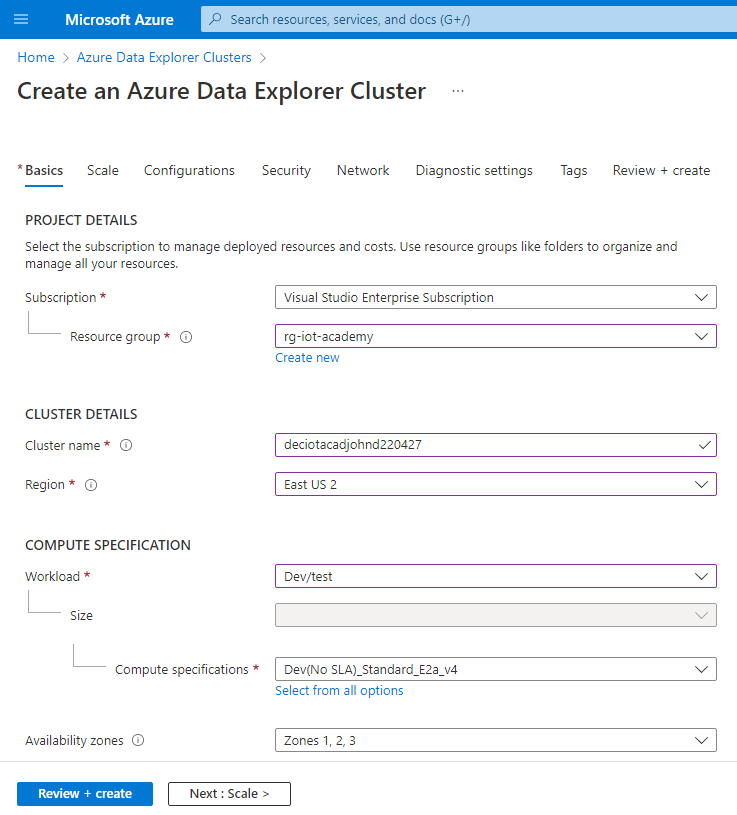
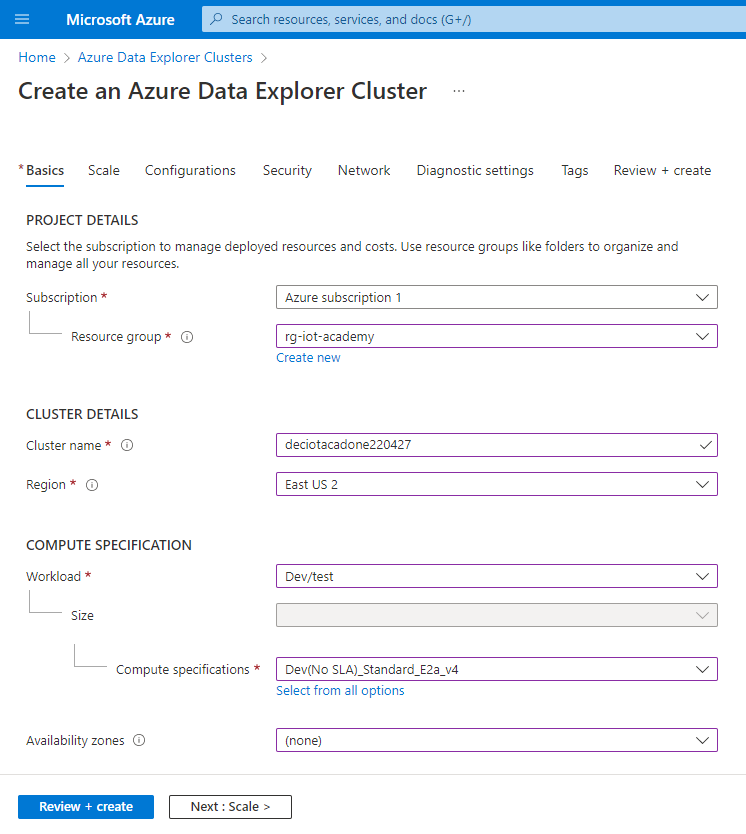
day2, misc formatting issues and a new screenshot for clarity

diff --git a/Month_1/Day_2/Azure IoT Foundation.md b/Month_1/Day_2/Azure IoT Foundation.md
@@ -9,43 +9,44 @@ https://portal.azure.com/
 
 <!-- code_chunk_output -->
 
-- [**Prerequisites**](#prerequisites)
-  - [**Task 1: Install VS Code**](#task-1-install-vs-code)
-  - [**Task 2: Install VS Code Extensions**](#task-2-install-vs-code-extensions)
-- [**Exercise 1: IoT Hub provisioning**](#exercise-1-iot-hub-provisioning)
-  - [**Task 1: Provision IoT Hub through the Portal**](#task-1-provision-iot-hub-through-the-portal)
-  - [**Task 2: Provision IoT Hub through CLI**](#task-2-provision-iot-hub-through-cli)
-  - [**Task 3: Provision IoT Hub through VS Code**](#task-3-provision-iot-hub-through-vs-code)
-- [**Exercise 2: Azure IoT Hub Device Provisioning Service (DPS)**](#exercise-2-azure-iot-hub-device-provisioning-service-dps)
-  - [**Task 1: Deploy DPS**](#task-1-deploy-dps)
-  - [**Task 2: Connect IoT Hub to DPS**](#task-2-connect-iot-hub-to-dps)
-  - [**Task 3: Create an Individual Enrollment**](#task-3-create-an-individual-enrollment)
-  - [**Task 4: Gather Individual Enrollment Details**](#task-4-gather-individual-enrollment-details)
-- [**Exercise 3: Create an Ubuntu-based Azure IoT Edge Device**](#exercise-3-create-an-ubuntu-based-azure-iot-edge-device)
-  - [**Task 1: Ensure the Azure Resource Provider is Registered**](#task-1-ensure-the-azure-resource-provider-is-registered)
-  - [**Task 2: Creating a VM to host an IoT Edge Device**](#task-2-creating-a-vm-to-host-an-iot-edge-device)
-  - [**Task 3: Connecting to your Ubuntu Virtual Machine**](#task-3-connecting-to-your-ubuntu-virtual-machine)
-  - [**Task 4: Install the Azure IoT Edge Runtime and Connect the Device**](#task-4-install-the-azure-iot-edge-runtime-and-connect-the-device)
-  - [**Task 5: Observe the Enrollment and Device Status**](#task-5-observe-the-enrollment-and-device-status)
-- [**Exercise 4: Deploy and IoT Edge Module to Simulate Device Telemetry**](#exercise-4-deploy-and-iot-edge-module-to-simulate-device-telemetry)
-  - [**Task 1: Use the IoT Edge Module Marketplace to Provision the Simulated Temperature Sensor Module**](#task-1-use-the-iot-edge-module-marketplace-to-provision-the-simulated-temperature-sensor-module)
-  - [**Task 2: Ensure the Module is Running**](#task-2-ensure-the-module-is-running)
-- [**Exercise 5: Ingesting Telemetry Data with IoT Hub and Azure Data Explorer (ADX)**](#exercise-5-ingesting-telemetry-data-with-iot-hub-and-azure-data-explorer-adx)
-  - [**Task 1: Creating the ADX Cluster**](#task-1-creating-the-adx-cluster)
-  - [**Task 2: Adding an ADX Database**](#task-2-adding-an-adx-database)
-  - [**Task 3: Creating the tempsensor table**](#task-3-creating-the-tempsensor-table)
-  - [**Task 4: Connecting ADX to IoT Hub to Ingest Telemetry**](#task-4-connecting-adx-to-iot-hub-to-ingest-telemetry)
-- [**Exercise 6: Analyzing Data with Azure Data Explorer (ADX)**](#exercise-6-analyzing-data-with-azure-data-explorer-adx)
-  - [**Task 1: Connecting ASA to IoT Hub**](#task-1-connecting-asa-to-iot-hub)
-- [**Exercise 7: Processing Telemetry with Azure Stream Analytics (ASA)**](#exercise-7-processing-telemetry-with-azure-stream-analytics-asa)
-  - [**Task 1: Create a Table in ADX to Hold aggregated data**](#task-1-create-a-table-in-adx-to-hold-aggregated-data)
-  - [**Task 2: Create a new ASA Job**](#task-2-create-a-new-asa-job)
-  - [**Task 3: Creating an ASA Input**](#task-3-creating-an-asa-input)
-  - [**Task 4: Creating an ASA Output**](#task-4-creating-an-asa-output)
-  - [**Task 5: Writing an ASA Query**](#task-5-writing-an-asa-query)
-  - [**Task 6: Start the ASA Job**](#task-6-start-the-asa-job)
-  - [**Task 7: Review Collected Aggregated in ADX**](#task-7-review-collected-aggregated-in-adx)
-- [**Exercise 8: Cleanup**](#exercise-8-cleanup)
+- [Internet of Things](#internet-of-things)
+  - [**Prerequisites**](#prerequisites)
+    - [**Task 1: Install VS Code**](#task-1-install-vs-code)
+    - [**Task 2: Install VS Code Extensions**](#task-2-install-vs-code-extensions)
+  - [**Exercise 1: IoT Hub provisioning**](#exercise-1-iot-hub-provisioning)
+    - [**Task 1: Provision IoT Hub through the Portal**](#task-1-provision-iot-hub-through-the-portal)
+    - [**Task 2: Provision IoT Hub through CLI**](#task-2-provision-iot-hub-through-cli)
+    - [**Task 3: Provision IoT Hub through VS Code**](#task-3-provision-iot-hub-through-vs-code)
+  - [**Exercise 2: Azure IoT Hub Device Provisioning Service (DPS)**](#exercise-2-azure-iot-hub-device-provisioning-service-dps)
+    - [**Task 1: Deploy DPS**](#task-1-deploy-dps)
+    - [**Task 2: Connect IoT Hub to DPS**](#task-2-connect-iot-hub-to-dps)
+    - [**Task 3: Create an Individual Enrollment**](#task-3-create-an-individual-enrollment)
+    - [**Task 4: Gather Individual Enrollment Details**](#task-4-gather-individual-enrollment-details)
+  - [**Exercise 3: Create an Ubuntu-based Azure IoT Edge Device**](#exercise-3-create-an-ubuntu-based-azure-iot-edge-device)
+    - [**Task 1: Ensure the Azure Resource Provider is Registered**](#task-1-ensure-the-azure-resource-provider-is-registered)
+    - [**Task 2: Creating a VM to host an IoT Edge Device**](#task-2-creating-a-vm-to-host-an-iot-edge-device)
+    - [**Task 3: Connecting to your Ubuntu Virtual Machine**](#task-3-connecting-to-your-ubuntu-virtual-machine)
+    - [**Task 4: Install the Azure IoT Edge Runtime and Connect the Device**](#task-4-install-the-azure-iot-edge-runtime-and-connect-the-device)
+    - [**Task 5: Observe the Enrollment and Device Status**](#task-5-observe-the-enrollment-and-device-status)
+  - [**Exercise 4: Deploy an IoT Edge Module to Simulate Device Telemetry**](#exercise-4-deploy-an-iot-edge-module-to-simulate-device-telemetry)
+    - [**Task 1: Use the IoT Edge Module Marketplace to Provision the Simulated Temperature Sensor Module**](#task-1-use-the-iot-edge-module-marketplace-to-provision-the-simulated-temperature-sensor-module)
+    - [**Task 2: Ensure the Module is Running**](#task-2-ensure-the-module-is-running)
+  - [**Exercise 5: Ingesting Telemetry Data with IoT Hub and Azure Data Explorer (ADX)**](#exercise-5-ingesting-telemetry-data-with-iot-hub-and-azure-data-explorer-adx)
+    - [**Task 1: Creating the ADX Cluster**](#task-1-creating-the-adx-cluster)
+    - [**Task 2: Adding an ADX Database**](#task-2-adding-an-adx-database)
+    - [**Task 3: Creating the tempsensor table**](#task-3-creating-the-tempsensor-table)
+    - [**Task 4: Connecting ADX to IoT Hub to Ingest Telemetry**](#task-4-connecting-adx-to-iot-hub-to-ingest-telemetry)
+  - [**Exercise 6: Analyzing Data with Azure Data Explorer (ADX)**](#exercise-6-analyzing-data-with-azure-data-explorer-adx)
+    - [**Task 1: Connecting ASA to IoT Hub**](#task-1-connecting-asa-to-iot-hub)
+  - [**Exercise 7: Processing Telemetry with Azure Stream Analytics (ASA)**](#exercise-7-processing-telemetry-with-azure-stream-analytics-asa)
+    - [**Task 1: Create a Table in ADX to Hold aggregated data**](#task-1-create-a-table-in-adx-to-hold-aggregated-data)
+    - [**Task 2: Create a new ASA Job**](#task-2-create-a-new-asa-job)
+    - [**Task 3: Creating an ASA Input**](#task-3-creating-an-asa-input)
+    - [**Task 4: Creating an ASA Output**](#task-4-creating-an-asa-output)
+    - [**Task 5: Writing an ASA Query**](#task-5-writing-an-asa-query)
+    - [**Task 6: Start the ASA Job**](#task-6-start-the-asa-job)
+    - [**Task 7: Review Collected Aggregated in ADX**](#task-7-review-collected-aggregated-in-adx)
+  - [**Exercise 8: Cleanup**](#exercise-8-cleanup)
 
 <!-- /code_chunk_output -->
 
@@ -617,27 +618,31 @@ e.g. `ssh iotacademy@20.122.53.2`
 
    ![Config File.](./media/dps-registration-status-assigned.png 'Config File')   
 
-## **Exercise 4: Deploy and IoT Edge Module to Simulate Device Telemetry**
+## **Exercise 4: Deploy an IoT Edge Module to Simulate Device Telemetry**
 
 ### **Task 1: Use the IoT Edge Module Marketplace to Provision the Simulated Temperature Sensor Module**
 
    1. In Azure Portal, navigate to your IoT Hub created in previous steps, under **Device Management** click **IoT Edge**, then click your Edge Device
+    
       ![Select Device.](./media/edge-set-module-1.png 'Select Device')
 
-   2. Click **Set Modules**
+   3. Click **Set Modules**
+    
       ![Set Modules.](./media/edge-set-module-2.png 'Set Modules')
 
-   3. Click **Add**. Then click **Marketplace Module**
+   5. Click **Add**. Then click **Marketplace Module**
+    
       ![Add Module.](./media/edge-set-module-add-module.png 'Add Module')
    
-   4. The search box will appear, type **Simulated Temperature Sensor**, Then click the module to add it
+   7. The search box will appear, type **Simulated Temperature Sensor**, Then click the module to add it
+   
       ![Add Temp Module.](./media/edge-set-module-add-module-simulated-temp.png 'Add Temp Module')
 
-   5. Review the presentation section **Routes** to learn about IoT Edge routing
+   8. Review the presentation section **Routes** to learn about IoT Edge routing
    
-   6. Click **Review + create** at the bottom of the pane. Review the available settings for the Deployment
+   9. Click **Review + create** at the bottom of the pane. Review the available settings for the Deployment
    
-   7. After validation passes click **Create** at the bottom of the pane
+   10. After validation passes click **Create** at the bottom of the pane
 
 ### **Task 2: Ensure the Module is Running**
 
@@ -648,6 +653,8 @@ e.g. `ssh iotacademy@20.122.53.2`
 
    - On device details review the **Modules** section at the bottom of the pane. 
       ![Edge Modules.](./media/edge-set-module-module-running.png 'Modules')
+
+      The **Refresh** button can also be used to get the latest status rather than refreshing the page. 
 
    - Using SSH, connect to your VM and run the `iotedge list` command as shown below
       ```bash
@@ -676,12 +683,14 @@ e.g. `ssh iotacademy@20.122.53.2`
          - Region: `{Your region}` e.g. `East US 2`
          - Workload: `Dev/test`
          - Compute specifications: `Dev(No SLA)_Standard_E2a_v4`
-      
-      ![Add Create ADX.](./media/telemetry-data-adx-create.png 'Add Create ADX')
+         - Availability Zones: uncheck all options. Availability zones provide resiliency, most often for production systems.  
+         <br/>
+
+         ![Add Create ADX.](./media/telemetry-data-adx-create.png 'Add Create ADX')
 
       - After validation passes click **Create**
 
-      - Wait until the cluster is created and click **Go to resource**
+      - Wait until the cluster is created, which may take ~5-10 minutes, and click **Go to resource**
 <br/>
 
 ### **Task 2: Adding an ADX Database**
@@ -702,7 +711,11 @@ e.g. `ssh iotacademy@20.122.53.2`
 
    Create the tempsensor table with schema and mapping
 
-   - Click Query. Click your **tempsensor** database. Paste the create table code from below into the windows. Then click **Run**.
+   - Click **Query**. Click your **tempsensor** database. Paste the create table code from below into the windows. Then click **Run**.
+
+      <span style="color:rgb(203,65,84);font-weight:700;font-size:16px">          
+      Note: If Query is greyed out refresh your browser page.
+      </span>
 
       ```
       .create table tempsensor (timeCreated: datetime, temperature: real, humidity: real)
@@ -753,9 +766,11 @@ e.g. `ssh iotacademy@20.122.53.2`
          - Mapping name: `tempsensorMapping`
 
       - Click **Create**
+
          ![ADX Create Connection Details.](./media/telemetry-data-adx-ingest-create-connection-details.png 'ADX Create Connection Details')
       
       - Watch for the notification for when the data connection creation is successful.
+
          ![ADX Create Connection Notification.](./media/telemetry-data-adx-ingest-create-connection-notification.png 'ADX Create Connection Notification')
 
 ## **Exercise 6: Analyzing Data with Azure Data Explorer (ADX)**
@@ -766,25 +781,35 @@ e.g. `ssh iotacademy@20.122.53.2`
       The `Simulated Temperature Sensor` module sends 500 telemetry messages, once every 5 seconds. This means ~40 minutes worth of messages. As our lab takes some time to work through we'll restart the module to ensure we have plenty of data to analyze with ADX.
 
       - Create a 2nd browser tab to have both ADX and IoT Hub open in the Azure Portal. Right click the browser tab and click **Duplicate tab**.
+
          ![Edge Duplicate Tab.](./media/edge-duplicate-tab.png 'Edge Duplicate Tab')
          <br/>
 
       - Switch to your 2nd tab, then click Microsoft Azure at the top of window to take you to the home page.
 
       - In your recent resources click your IoT Hub instance such as `iot-academy-johndoe-vscode-220427`
+
          ![Recent Resources.](./media/recent-resources-iothub.png 'Recent Resources')
          <br/>
       
       - Click **IoT Edge**, then click your device **iot-academy-edge-device**
+
          ![IoT Hub Edge Device.](./media/iot-hub-iot-edge-device.png 'IoT Hub Edge Device')
          <br/>
 
       - Click the **Simulated Temperature Sensor** module at the bottom of the window
+
          ![IoT Hub Device Module.](./media/iot-hub-device-module.png 'IoT Hub Device Module')
+         <br/>
+
+      - Click the **Troubleshoot** at the top of the window
+
+         ![Troubleshoot.](./media/iot-hub-edge-module-troubleshoot.png 'Troubleshoot')
          <br/>
       
       - Click **Restart Simulated Temperature Sensor** 
          Notice the status that's received `Initializing simulated temperature sensor to send 500 messages, at an interval of 5 seconds`
+
          ![Restart Simulated Temperature Sensor.](./media/simulated-temp-sensor-restart.png 'Restart Simulated Temperature Sensor')
          <br/>
    
@@ -817,7 +842,9 @@ e.g. `ssh iotacademy@20.122.53.2`
    1. Go to the Azure Portal home page
    2. Click **Create a resource**
    3. Search for `stream analytics job`
+
       ![ASA Create.](./media/asa-create.png 'ASA Create')
+
    4. Click **Stream Analytics job**
    5. Click **Create**
    6. Enter the details for the job:
@@ -828,6 +855,7 @@ e.g. `ssh iotacademy@20.122.53.2`
       - Streaming units: `1`
       
       ![ASA Create Details.](./media/asa-create-details.png 'ASA Create Details')
+
    7. When the deployment is complete click **Go to resource**
    
 ### **Task 3: Creating an ASA Input**
@@ -836,14 +864,18 @@ e.g. `ssh iotacademy@20.122.53.2`
    - Create a new consumer group named `asa`. Reference Exercise 5 - Task 4 if help is needed.
    - Go back to your tab that has your ASA instance.
    - Click **Inputs**, Click **Add stream input**, Click **IoT Hub**
+
       ![New Input.](./media/asa-new-input.png 'New Input')
+
    - Enter the input details:
+
       ![Input Details.](./media/asa-new-input-details.png 'Input Details')
       
 ### **Task 4: Creating an ASA Output**
 
    1. Click **Outputs**
    2. Click **Add**, then click **Azure Data Explorer**
+
       ![New Output.](./media/asa-new-output.png 'New Output')
    
    3. Enter the details as shown below:
@@ -853,6 +885,7 @@ e.g. `ssh iotacademy@20.122.53.2`
       - Table: `tempsensoragg`
 
       ![New Output Details.](./media/asa-new-output-details.png 'New Output Details')
+
    4. Click **Save**
 
 ### **Task 5: Writing an ASA Query**
@@ -880,10 +913,15 @@ GROUP BY TumblingWindow(Duration(minute, 1))
 ### **Task 6: Start the ASA Job**
    1. Go to the **Overview** tab
    2. Click **Start**
+
       ![Start Job.](./media/asa-start-job.png 'Start Job')
+
    3. Click **Start** once more
+
       ![Start Job Details.](./media/asa-start-job-details.png 'Start Job Details')
+
    4. Watch the notification to ensure that the ASA job starts successfully.
+
       ![Start Job Success.](./media/asa-start-job-success.png 'Start Job Success')
    
 ### **Task 7: Review Collected Aggregated in ADX**
@@ -897,6 +935,7 @@ GROUP BY TumblingWindow(Duration(minute, 1))
       ```
    4. Click **Run**
    5. Continue clicking **Run** occassionally for 10 - 15 minutes until you see your data appear in the results as shown
+
       ![Tempsensoragg-results.](./media/adx-tempsensoragg-results.png 'Tempsensoragg-results')
 
 ## **Exercise 8: Cleanup**
